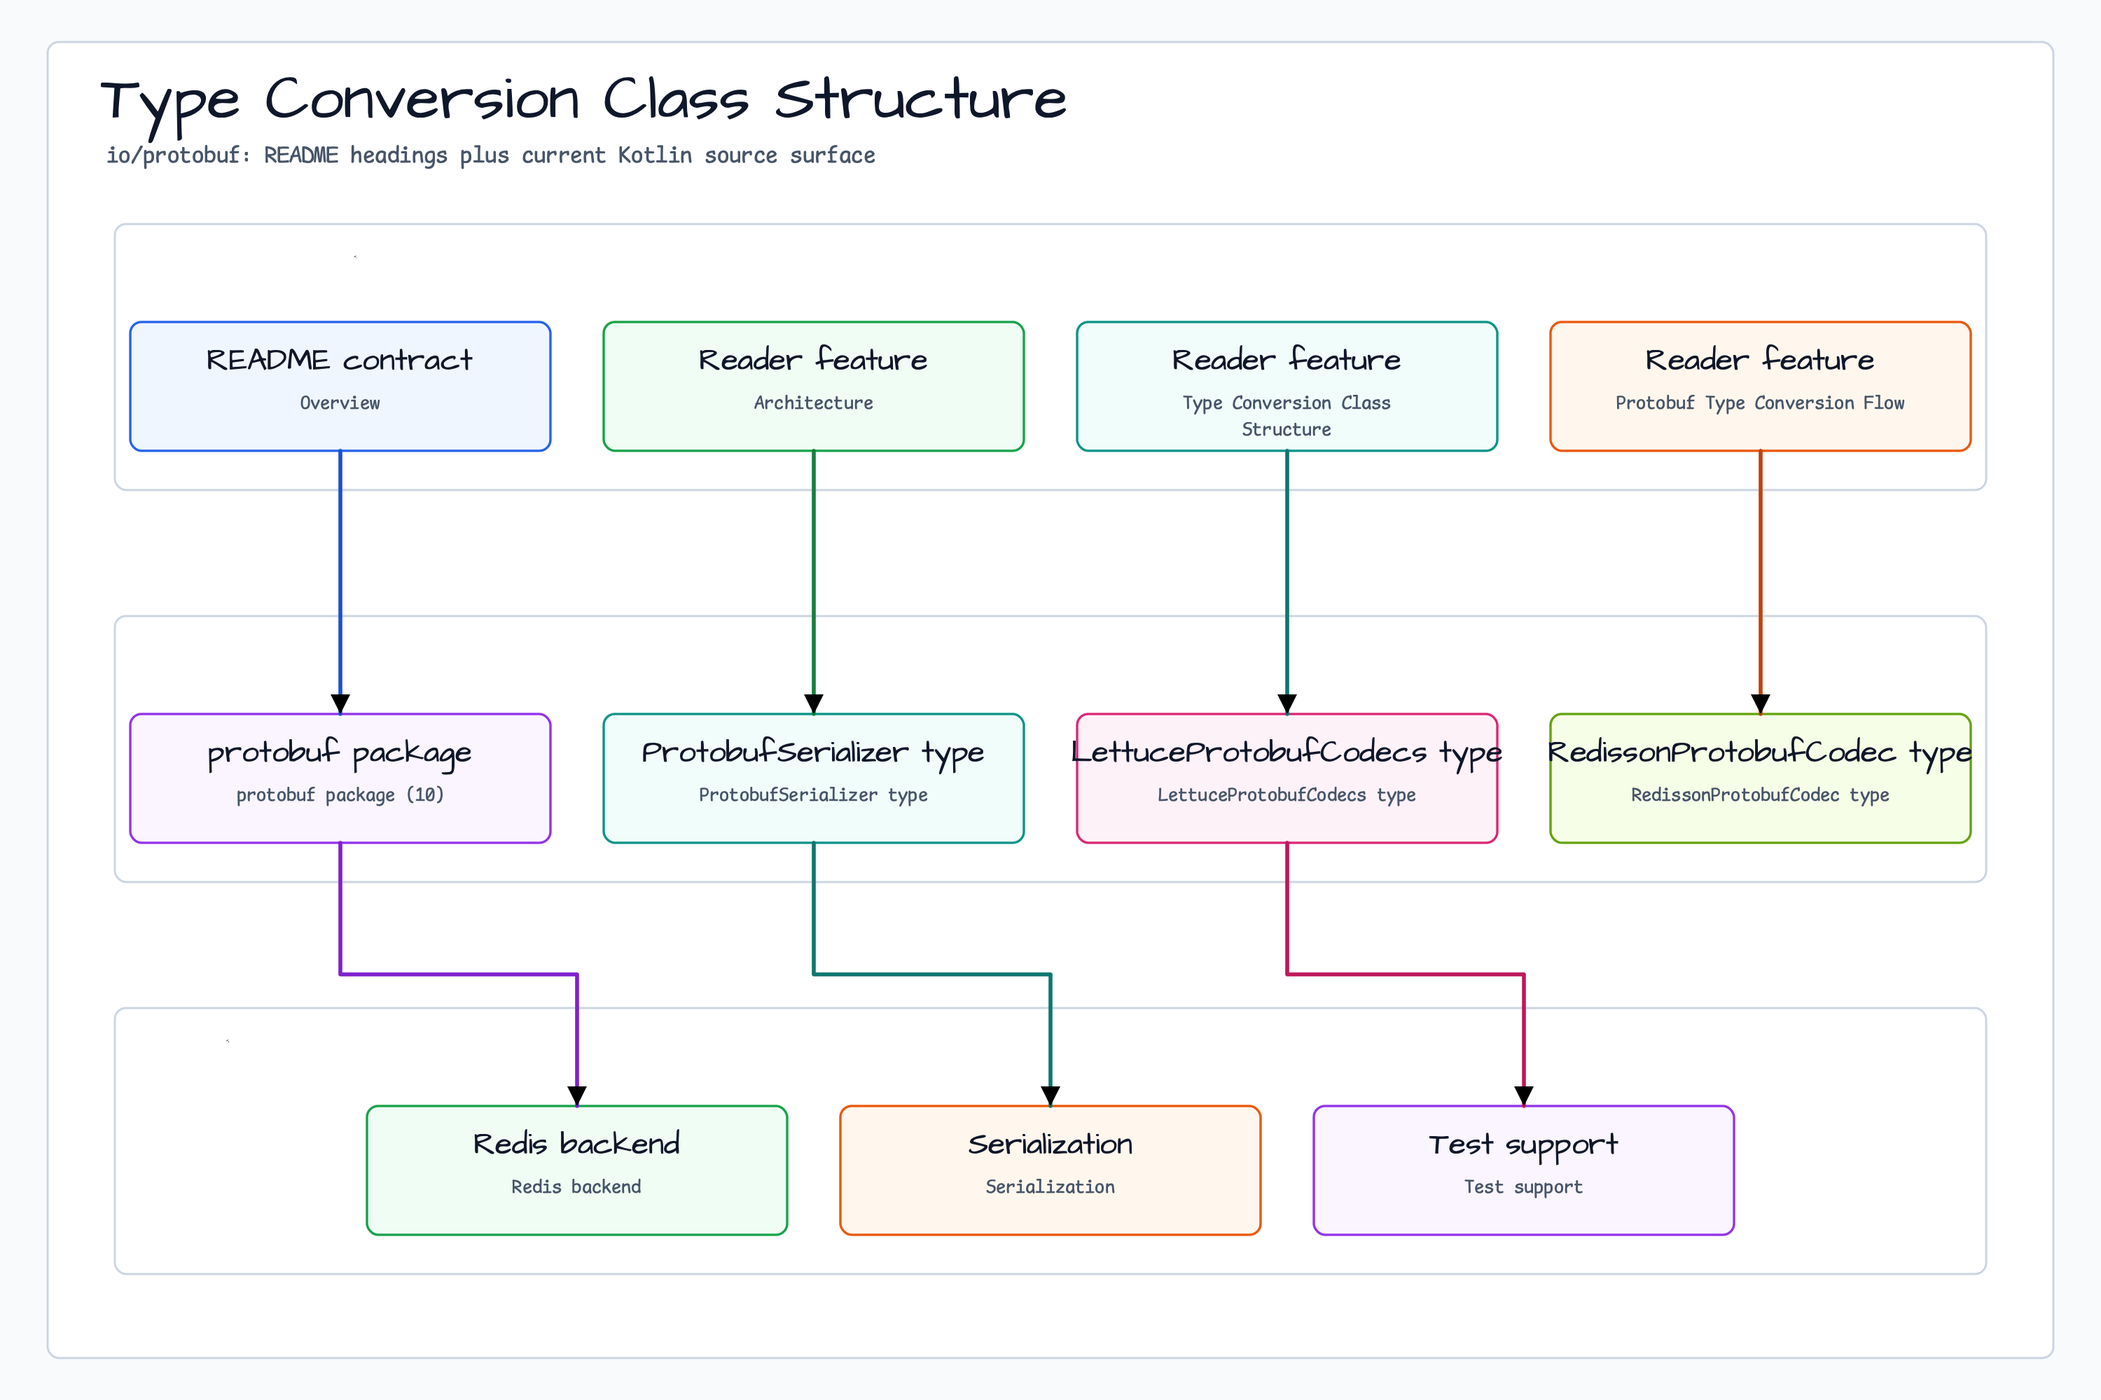
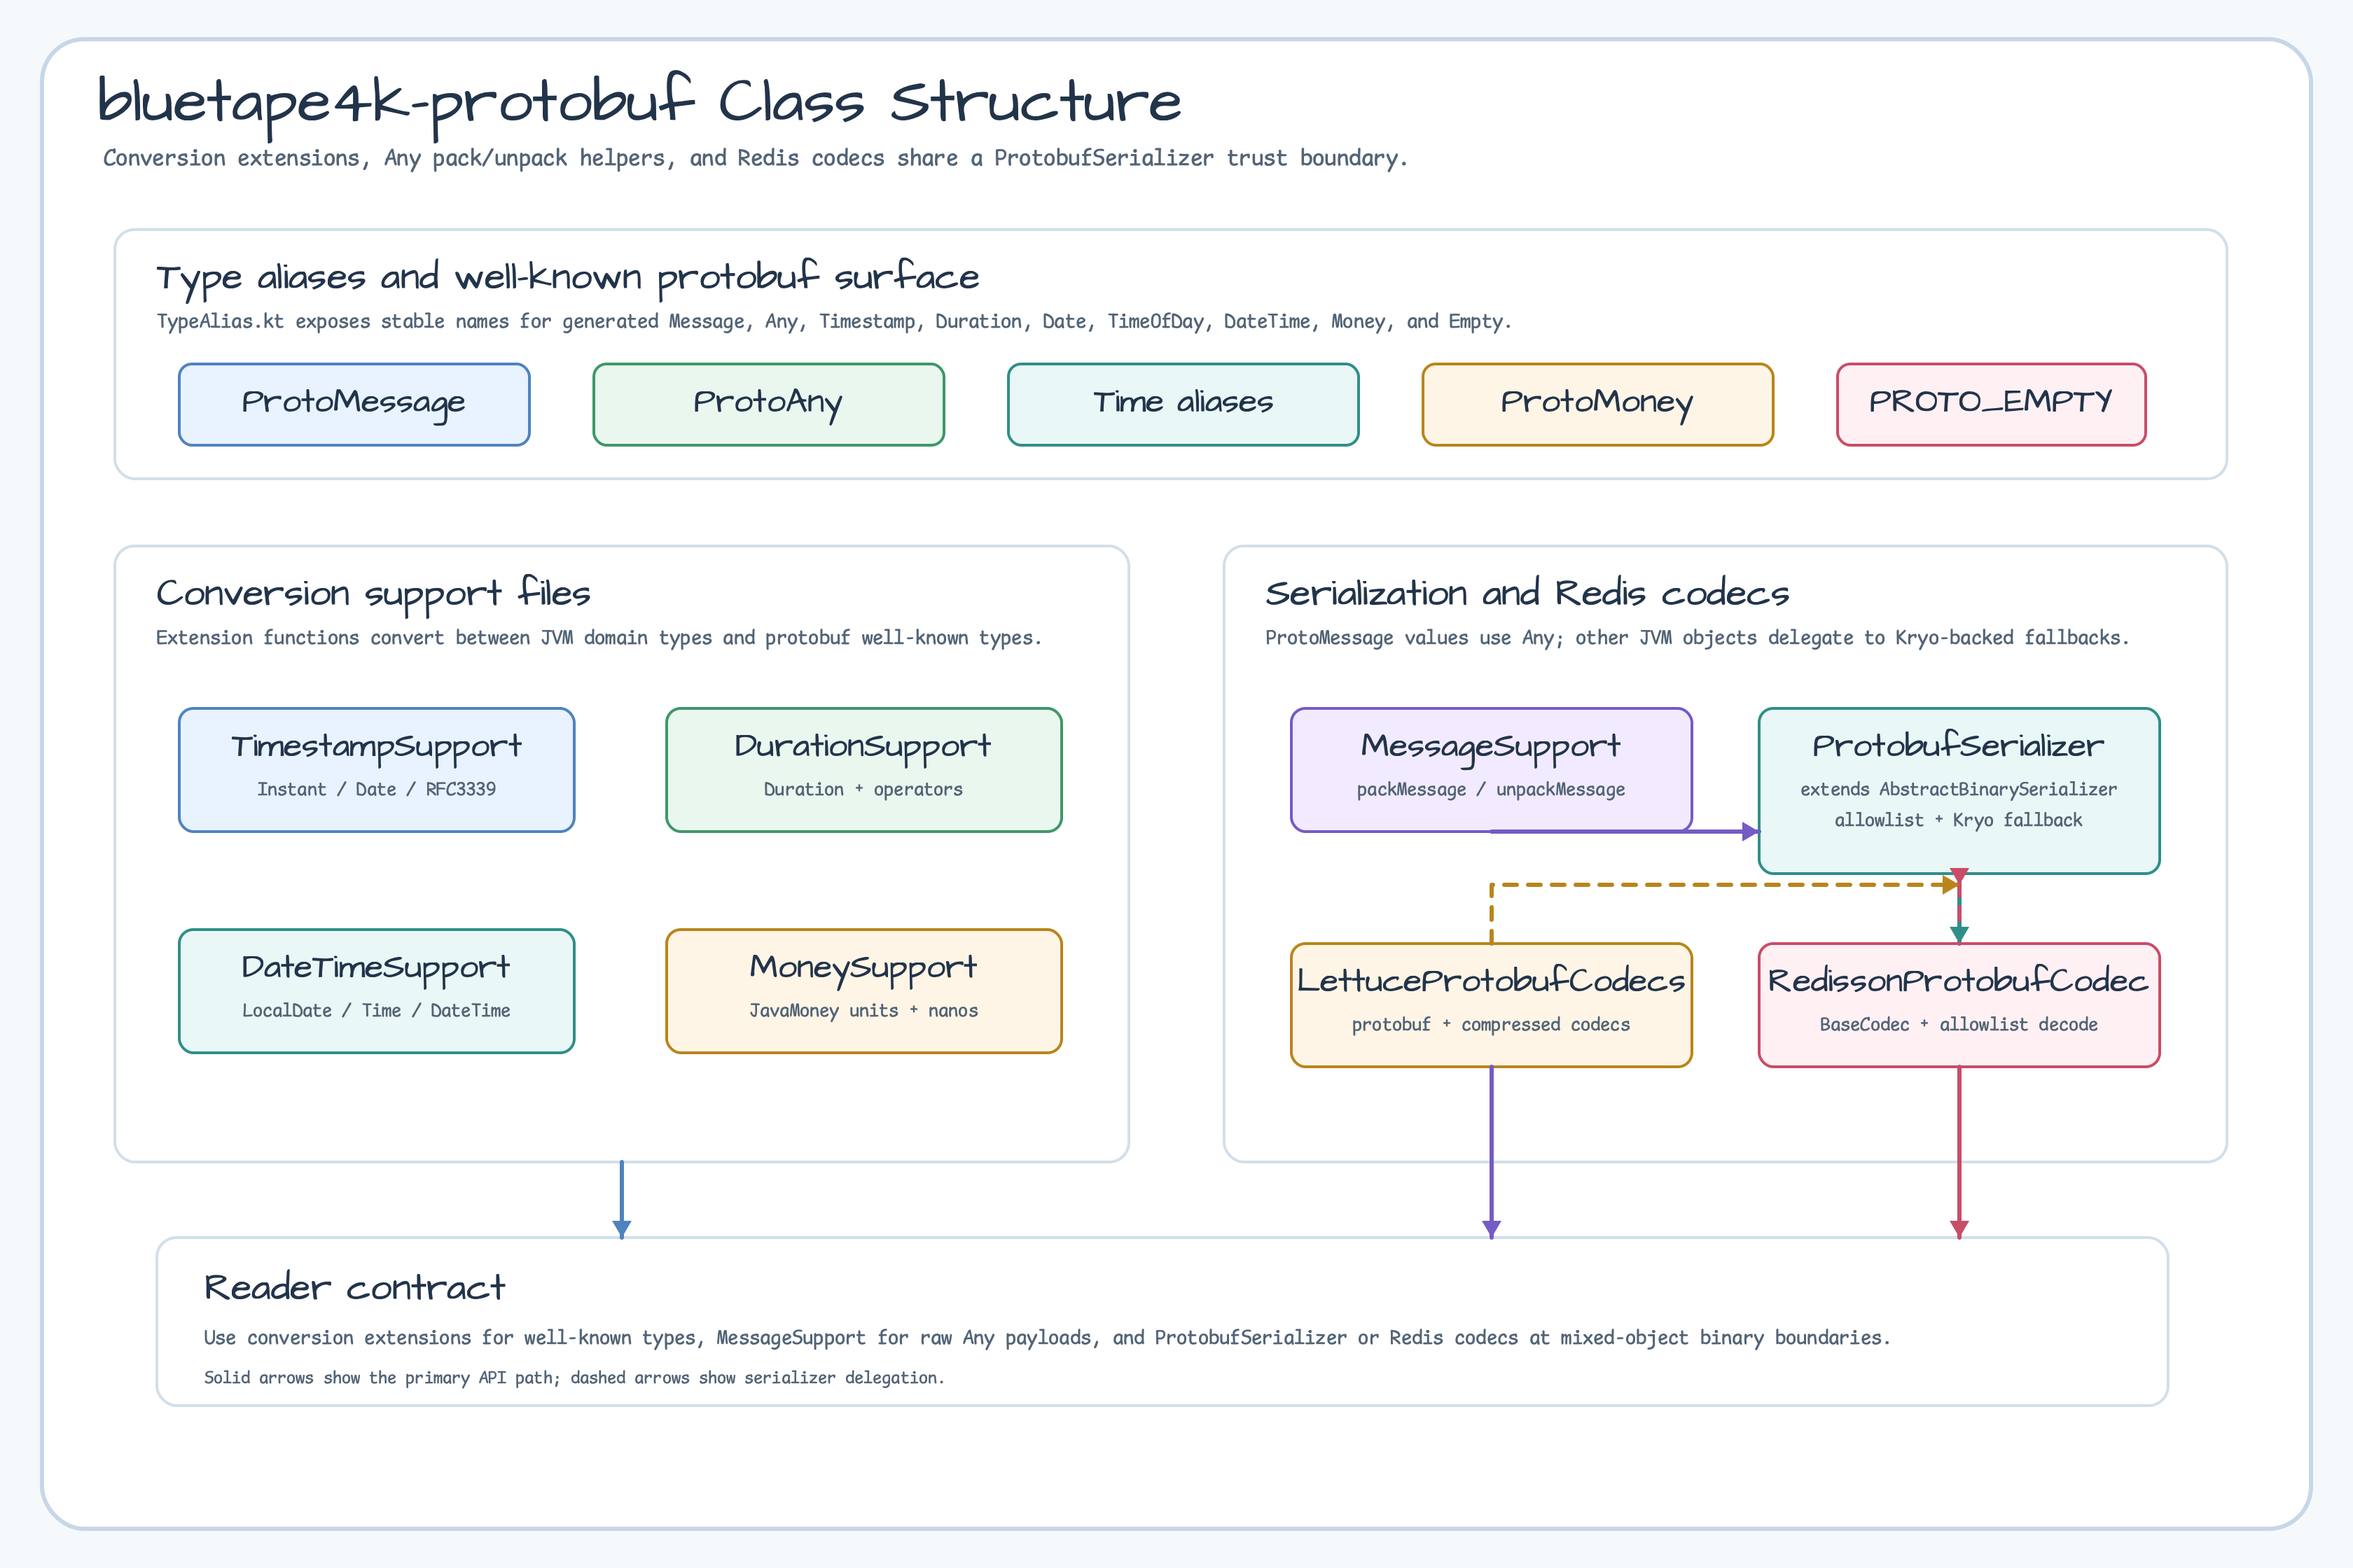
docs: redraw protobuf diagrams from source
The protobuf README diagrams should explain the actual conversion helpers, Any payload path, ProtobufSerializer allowlist boundary, and Redis codec delegation instead of generic generated README-feature boxes.

Constraint: Current source shows ProtoMessage values serialized through Any, typeUrl prefixes validated before class loading, and non-Protobuf payloads delegated to Kryo-backed fallbacks.

Rejected: Keeping the previous class-structure diagram | It showed README contract and Reader feature placeholders rather than the module's concrete classes and support files.

Confidence: high

Scope-risk: narrow

Directive: Keep protobuf sequence diagrams tied to ProtobufSerializer.kt; do not show direct message.toByteArray or parseFrom as the serializer's primary path.

Tested: CairoSVG rendered io-protobuf diagram 01-02 and sequence 01; visually inspected all three PNGs for text fit, line overlap, arrow readability, and margins; SVG XML, forbidden wording, markerUnits, alt opacity, and README image links passed; git diff --check passed.

Not-tested: Gradle build not run because this is README/image-only documentation work.

diff --git a/io/protobuf/README.ko.md b/io/protobuf/README.ko.md
@@ -10,17 +10,17 @@ Google Protocol Buffers 메시지 처리를 위한 Kotlin 확장 라이브러리
 
 ## 아키텍처
 
-### 타입 변환 클래스 구조
+### Protobuf 클래스 구조
 
-![protobuf Class Structure diagram](../../docs/images/readme-diagrams/io-protobuf-diagram-01.png)
+![Protobuf 클래스 구조 다이어그램](../../docs/images/readme-diagrams/io-protobuf-diagram-01.png)
 
 ### Protobuf 타입 변환 흐름
 
-![Protobuf diagram](../../docs/images/readme-diagrams/io-protobuf-diagram-02.png)
+![Protobuf 타입 변환 흐름 다이어그램](../../docs/images/readme-diagrams/io-protobuf-diagram-02.png)
 
-### 직렬화 시퀀스
+### ProtobufSerializer 허용 목록 시퀀스
 
-![protobuf Sequence Flow 3 diagram](../../docs/images/readme-diagrams/io-protobuf-sequence-01.png)
+![ProtobufSerializer 허용 목록 검증 시퀀스 다이어그램](../../docs/images/readme-diagrams/io-protobuf-sequence-01.png)
 
 ## 주요 기능
 

diff --git a/io/protobuf/README.md b/io/protobuf/README.md
@@ -10,17 +10,17 @@ A Kotlin extension library for working with Google Protocol Buffers messages.
 
 ## Architecture
 
-### Type Conversion Class Structure
+### Protobuf Class Structure
 
-![Type Conversion Class Structure diagram](../../docs/images/readme-diagrams/io-protobuf-diagram-01.png)
+![Protobuf Class Structure diagram](../../docs/images/readme-diagrams/io-protobuf-diagram-01.png)
 
 ### Protobuf Type Conversion Flow
 
 ![Protobuf Type Conversion Flow diagram](../../docs/images/readme-diagrams/io-protobuf-diagram-02.png)
 
-### Serialization Sequence
+### ProtobufSerializer Allowlist Sequence
 
-![Serialization Sequence diagram](../../docs/images/readme-diagrams/io-protobuf-sequence-01.png)
+![ProtobufSerializer Allowlist Sequence diagram](../../docs/images/readme-diagrams/io-protobuf-sequence-01.png)
 
 ## Key Features
 
